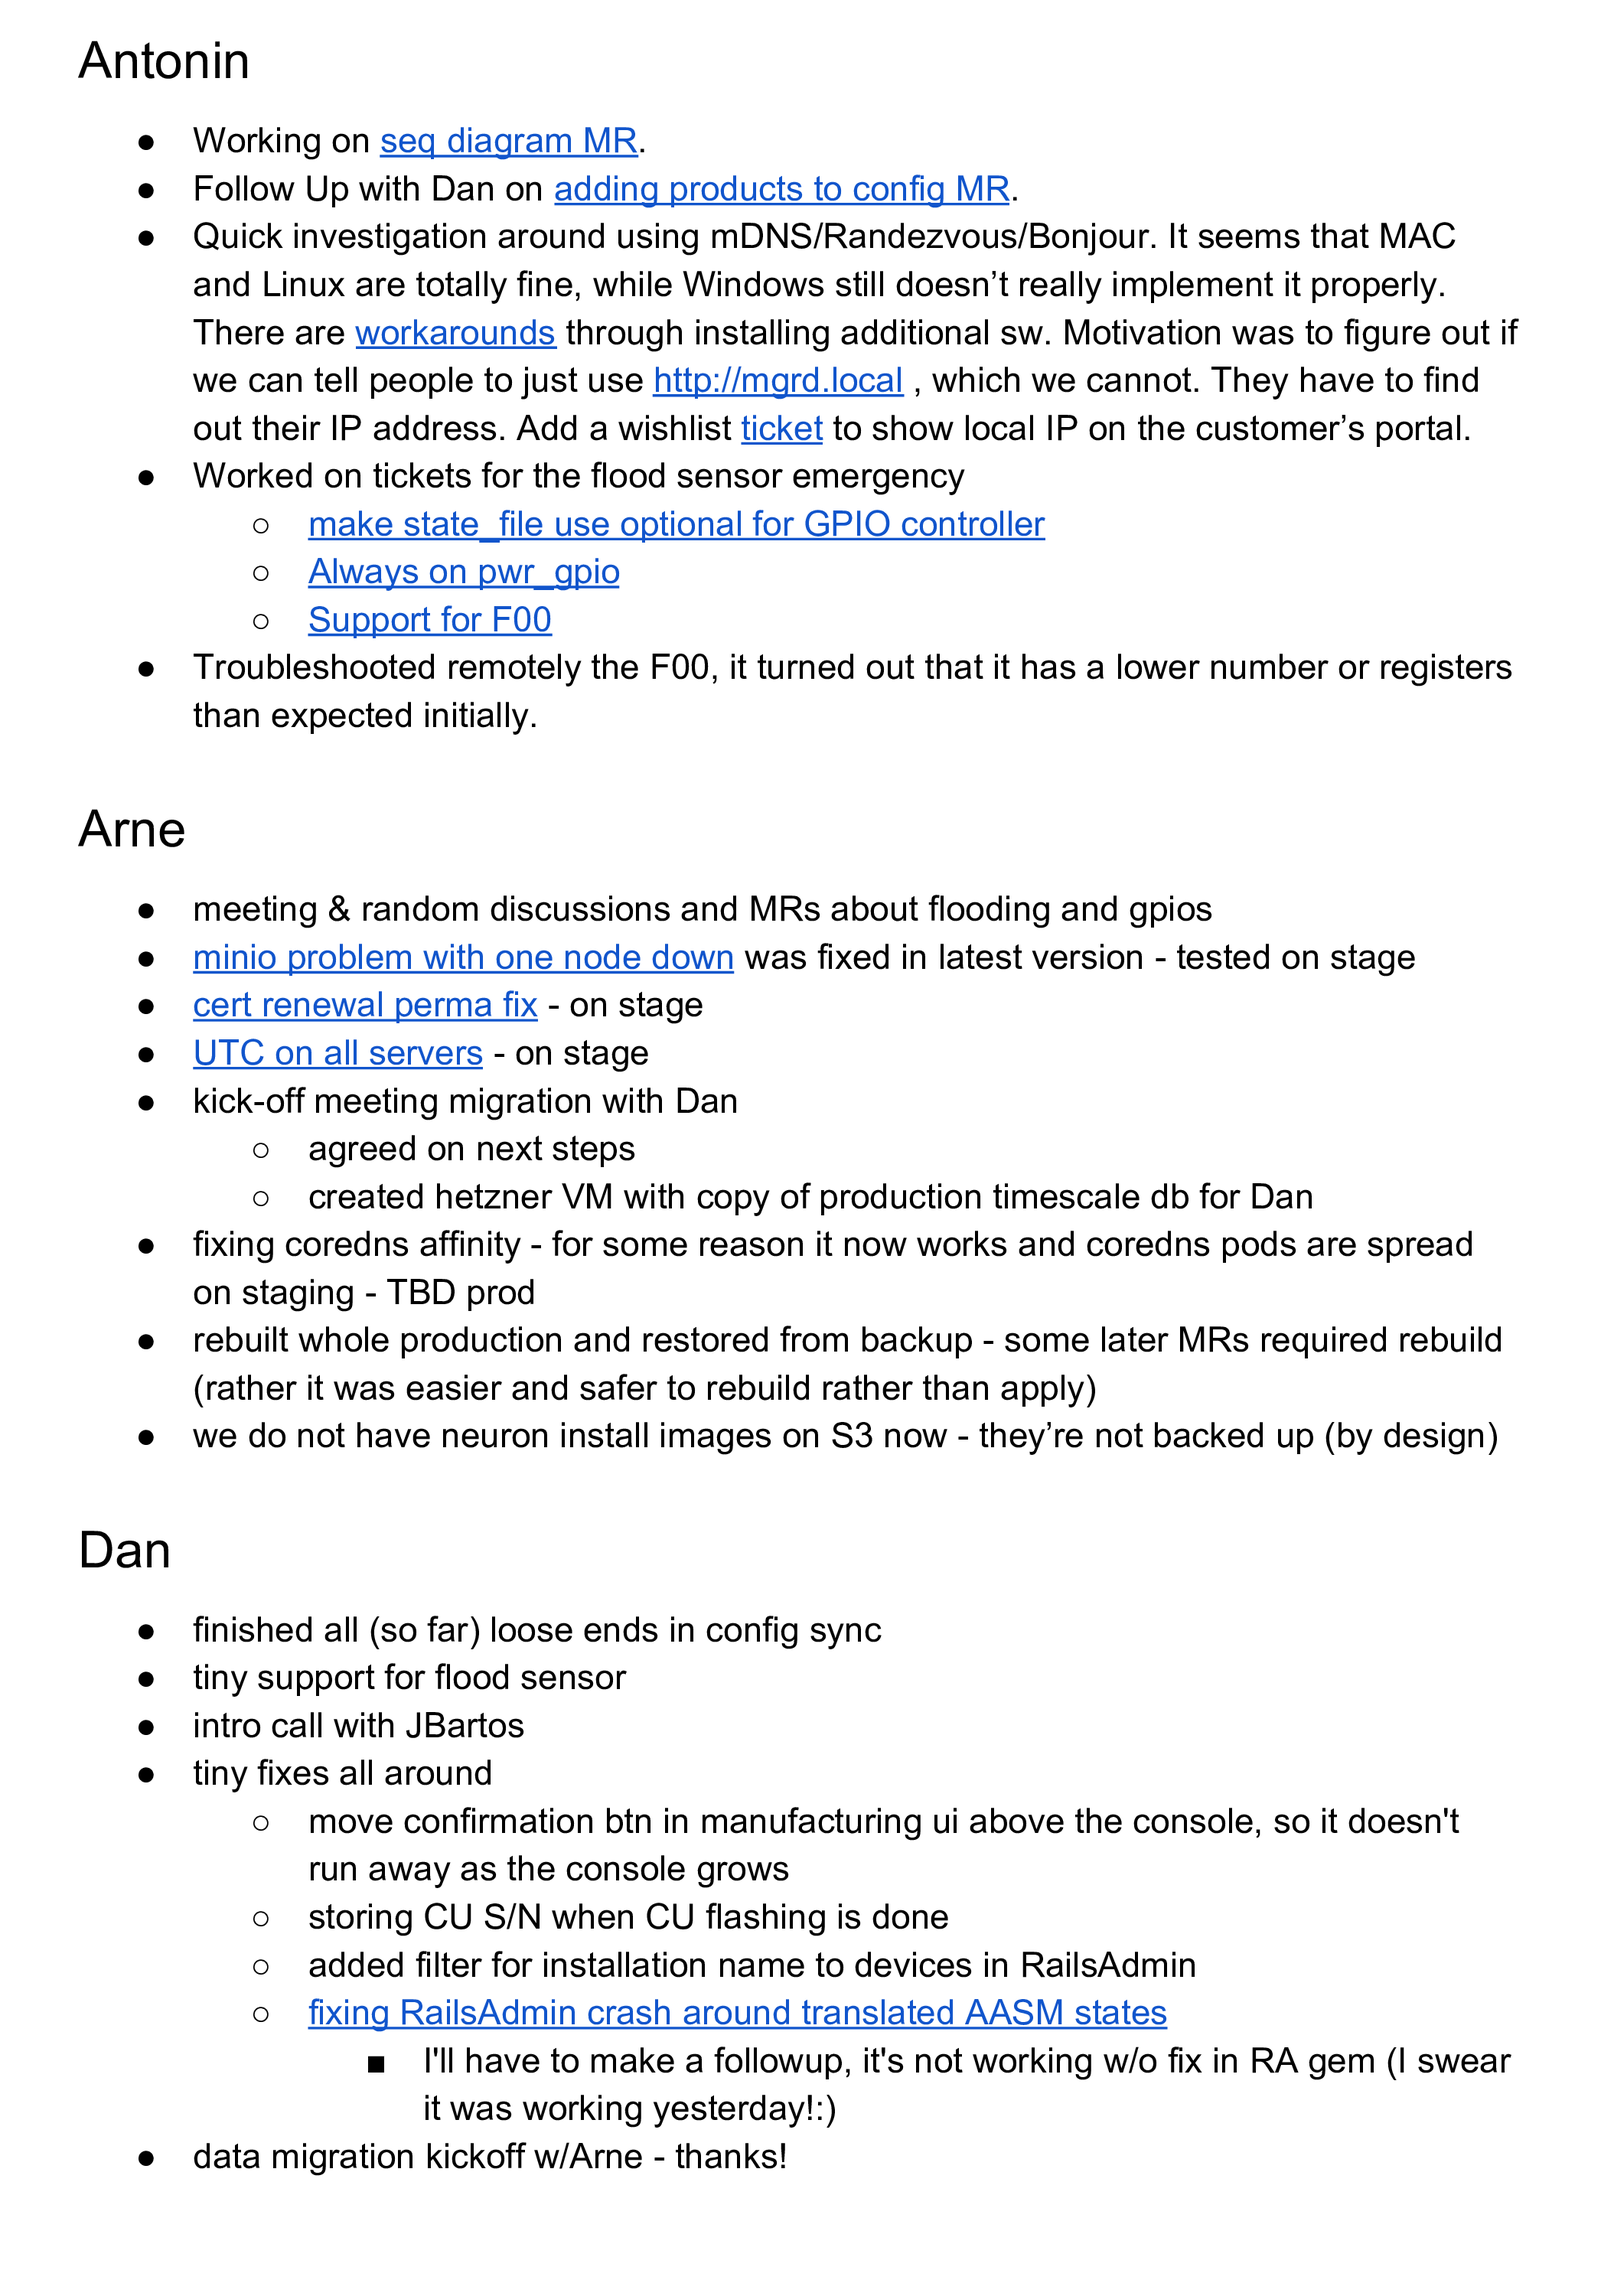
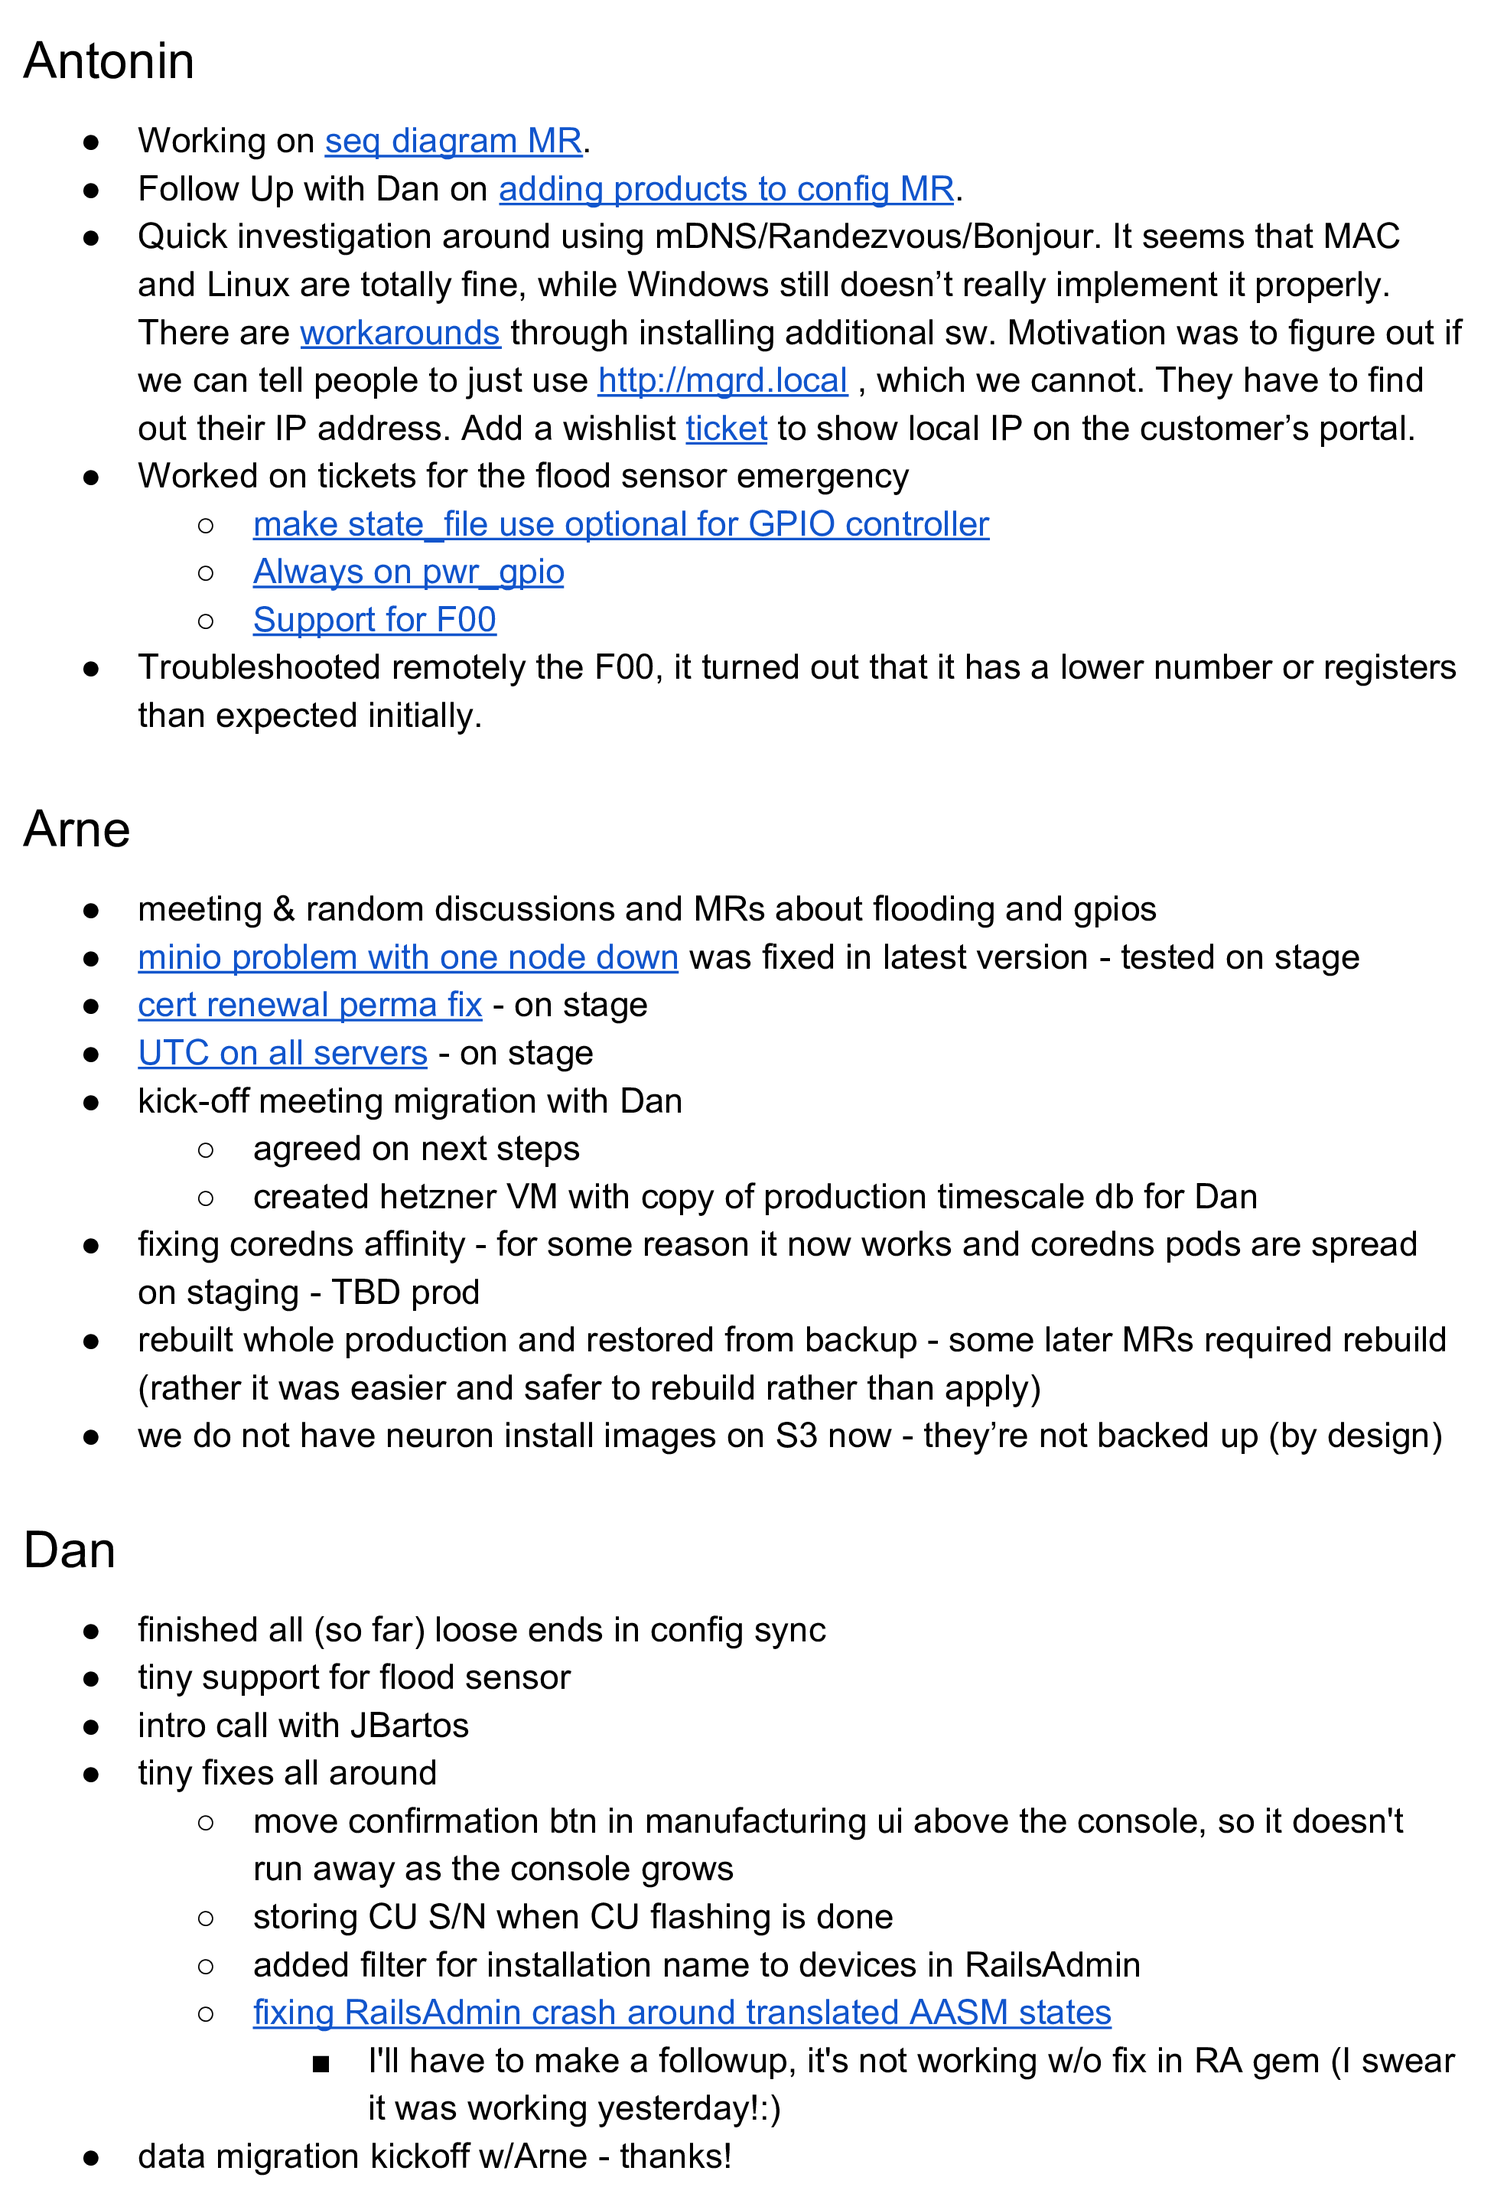
Making articles a bit more readable

diff --git a/source/stylesheets/all.css.scss b/source/stylesheets/all.css.scss
@@ -9,8 +9,8 @@ $fg-faded: rgba($fg,0.4);
 html, body {
   color: $fg;
   background-color: #fff;
-  font-family: 'PT Serif', Times, serif;
-  font-size: 15px;
+  font-family: Iowan Old Style, Iowan, Charter, Palatino Linotype, Palatino, Book Antiqua, Palatino LT STD, Times New Roman, Times, serif;
+  font-size: 20px;
 }
 
 a {
@@ -44,7 +44,7 @@ a, h1, h2, p, ul, ol, pre, hr, .logo, blockquote { margin: 0; }
 h2 { padding-top: 1.65rem; }
 
 .main {
-  max-width: 850px;
+  max-width: 950px;
   margin: 0 auto;
   padding: 1rem;
   @include desktop { padding: 6.5rem 1rem; }
@@ -56,14 +56,14 @@ h2 { padding-top: 1.65rem; }
   font-weight: bold;
 }
 
-p, ul, ol, h1, h2 { line-height: 1.9; }
+p, ul, ol, h1, h2 { line-height: 1.6; }
 ul, ol { padding-left: 1.5em; }
 .footnotes { font-size: 0.9em; }
 .footnotes li { margin-top: 1rem; }
 
 img {
-  max-width: 100%;
-  margin: 0 auto;
+  max-width: 80%;
+  margin: 2em auto;
   display: block;
 }
 
@@ -71,6 +71,7 @@ img {
 img + em {
   display: block;
   text-align: center;
+  margin: -2em auto;
 }
 
 .logo {

diff --git a/source/blog/2021/written-standup.html.md b/source/blog/2021/written-standup.html.md
@@ -17,7 +17,7 @@ Having a daily standup is an important part of knowledge sharing. That includes,
 
 But physical standups (round tables) are frequently non-effective and actually quite hard to follow and don't give opportunity to dig deeper into topics which interests you. Also having a physical standup effectively prevents anybody from a different time-zone to participate. Not to mention, they frequently ends up as list of ticket numbers spitted out loud.
 
-To address these issues, I have used concept of a **written standup** at multiple companies. 
+To address these issues, I have used concept of a **written standup** at multiple companies.
 
 ## How written standup works?
 
@@ -26,14 +26,14 @@ Whole concept got its inspiration from a [long history of logbooks](https://en.w
 - Bot creates an empty document every midnight UTC on the shared Google Drive (or any other collaborative storage). Bot follows naming schema of `{year}/{month}/{year}-{month}-{day}_standup`. Documents are made as copies of a template. Template is just a normal document. This allows to easily make changes to all future standups.
 - Bot publishes the link to Slack channel `#engineering-standups`. Slack channel makes it really easy to get back couple standups. Which is quite handy for example when you get back from vacation. ![example of standaup slack channel](standup_slack.png)
 - Everybody has her/his section in the document.
-- Your record in the document should be finalized by the **end of your work day**. In other words -- you are supposed to be capturing what you have *done the same day* or what are you *planning to be doing next day*. It doesn't typically talk about yesterday (in contrast to typical standup).
+- Your record in the document should be finalized by the **end of your work day**. In other words -- you are supposed to be capturing what you have _done the same day_ or what are you _planning to be doing next day_. It doesn't typically talk about yesterday (in contrast to typical standup).
 - On the other hand, when you start working in the morning. Quickly go through the stand up from the **previous day**. That will help you to see what others have done.
 - Always provide context to allow people to understand the update (links to Phabricator tasks, GitLab projects, merge requests or just link what ever you are talking about).
 - If somebody asked a question / requested more details via comment, always consider updating your record in the document (in contrast to just replying to the comment). Any consecutive reader will benefit from the updated text.
 
 Important thing is to keep common sense in the play. Cover information, which could be interesting for others. Not wasting time on trivial tasks. Always keeping on mind, that somebody else is going to read it.
 
-![Example of a written standup](standup_example.png) *Example page from a written standup document. Covering an IoT project.*
+![Example of a written standup](standup_example.png) _Example page from a written standup document. Covering an IoT project._
 
 ## Key benefits of written standups
 
@@ -42,7 +42,7 @@ Important thing is to keep common sense in the play. Cover information, which co
 - Google Document allows for inline comments which became a great tool for asking additional information asynchronously.
 - It is fair for everybody, despite their schedules or time-zones. It turned to be really valuable for every team, we have rolled this out to. It works for team in one time-zone as well as for teams distributed around the globe. Standup basically follows the sun.
 - Allows people, who for any reason missed a particular standup, to catch up easily.
-- Produces body of *searchable* and *rich* documents.
+- Produces body of _searchable_ and _rich_ documents.
 - It also helps you to see what you have achieved during the day. And get the sense of accomplishment, which is otherwise challenging to get at knowledge jobs.
 - Best is to treat written standup as your logbook. Filling it during the day. It removes burden of remembering what you have done at the end of the day. As well as it allows for faster pickup by others.
 
@@ -53,4 +53,3 @@ Current experience is that people adopt the concept very quickly.
 It is important to make sure, that people feel safe to share true notes. They may start filling in trivialities or even made up note, if they feel insecure. Leading by example really worked for me, so I am not afraid of making logs like the following one for myself.
 
 > It has been a very slow/unproductive day with dentist and MD appointments. Then catching and responding to the slack on various threads.
-
